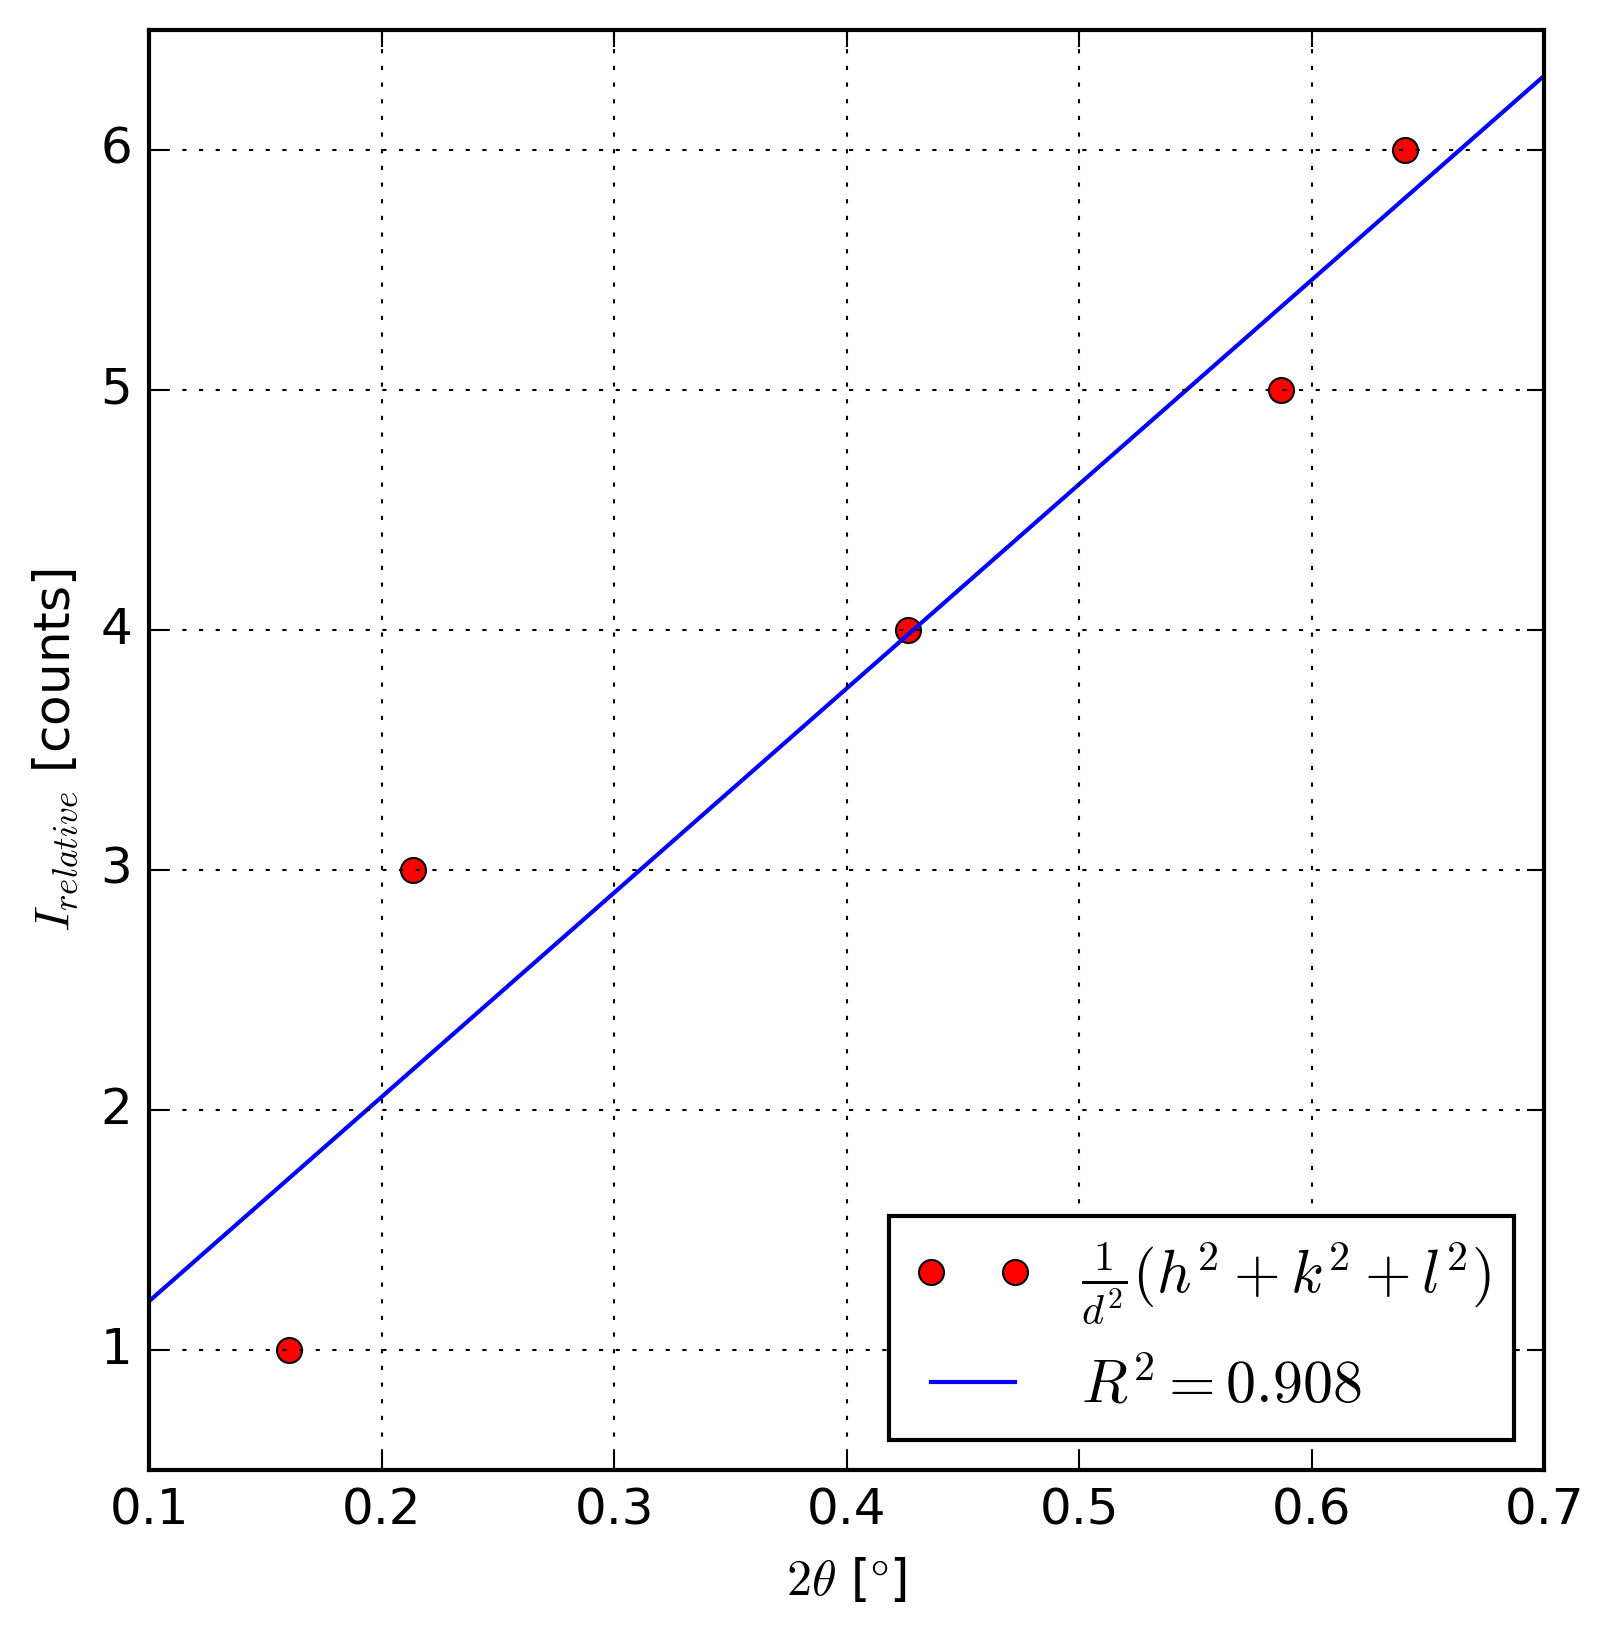
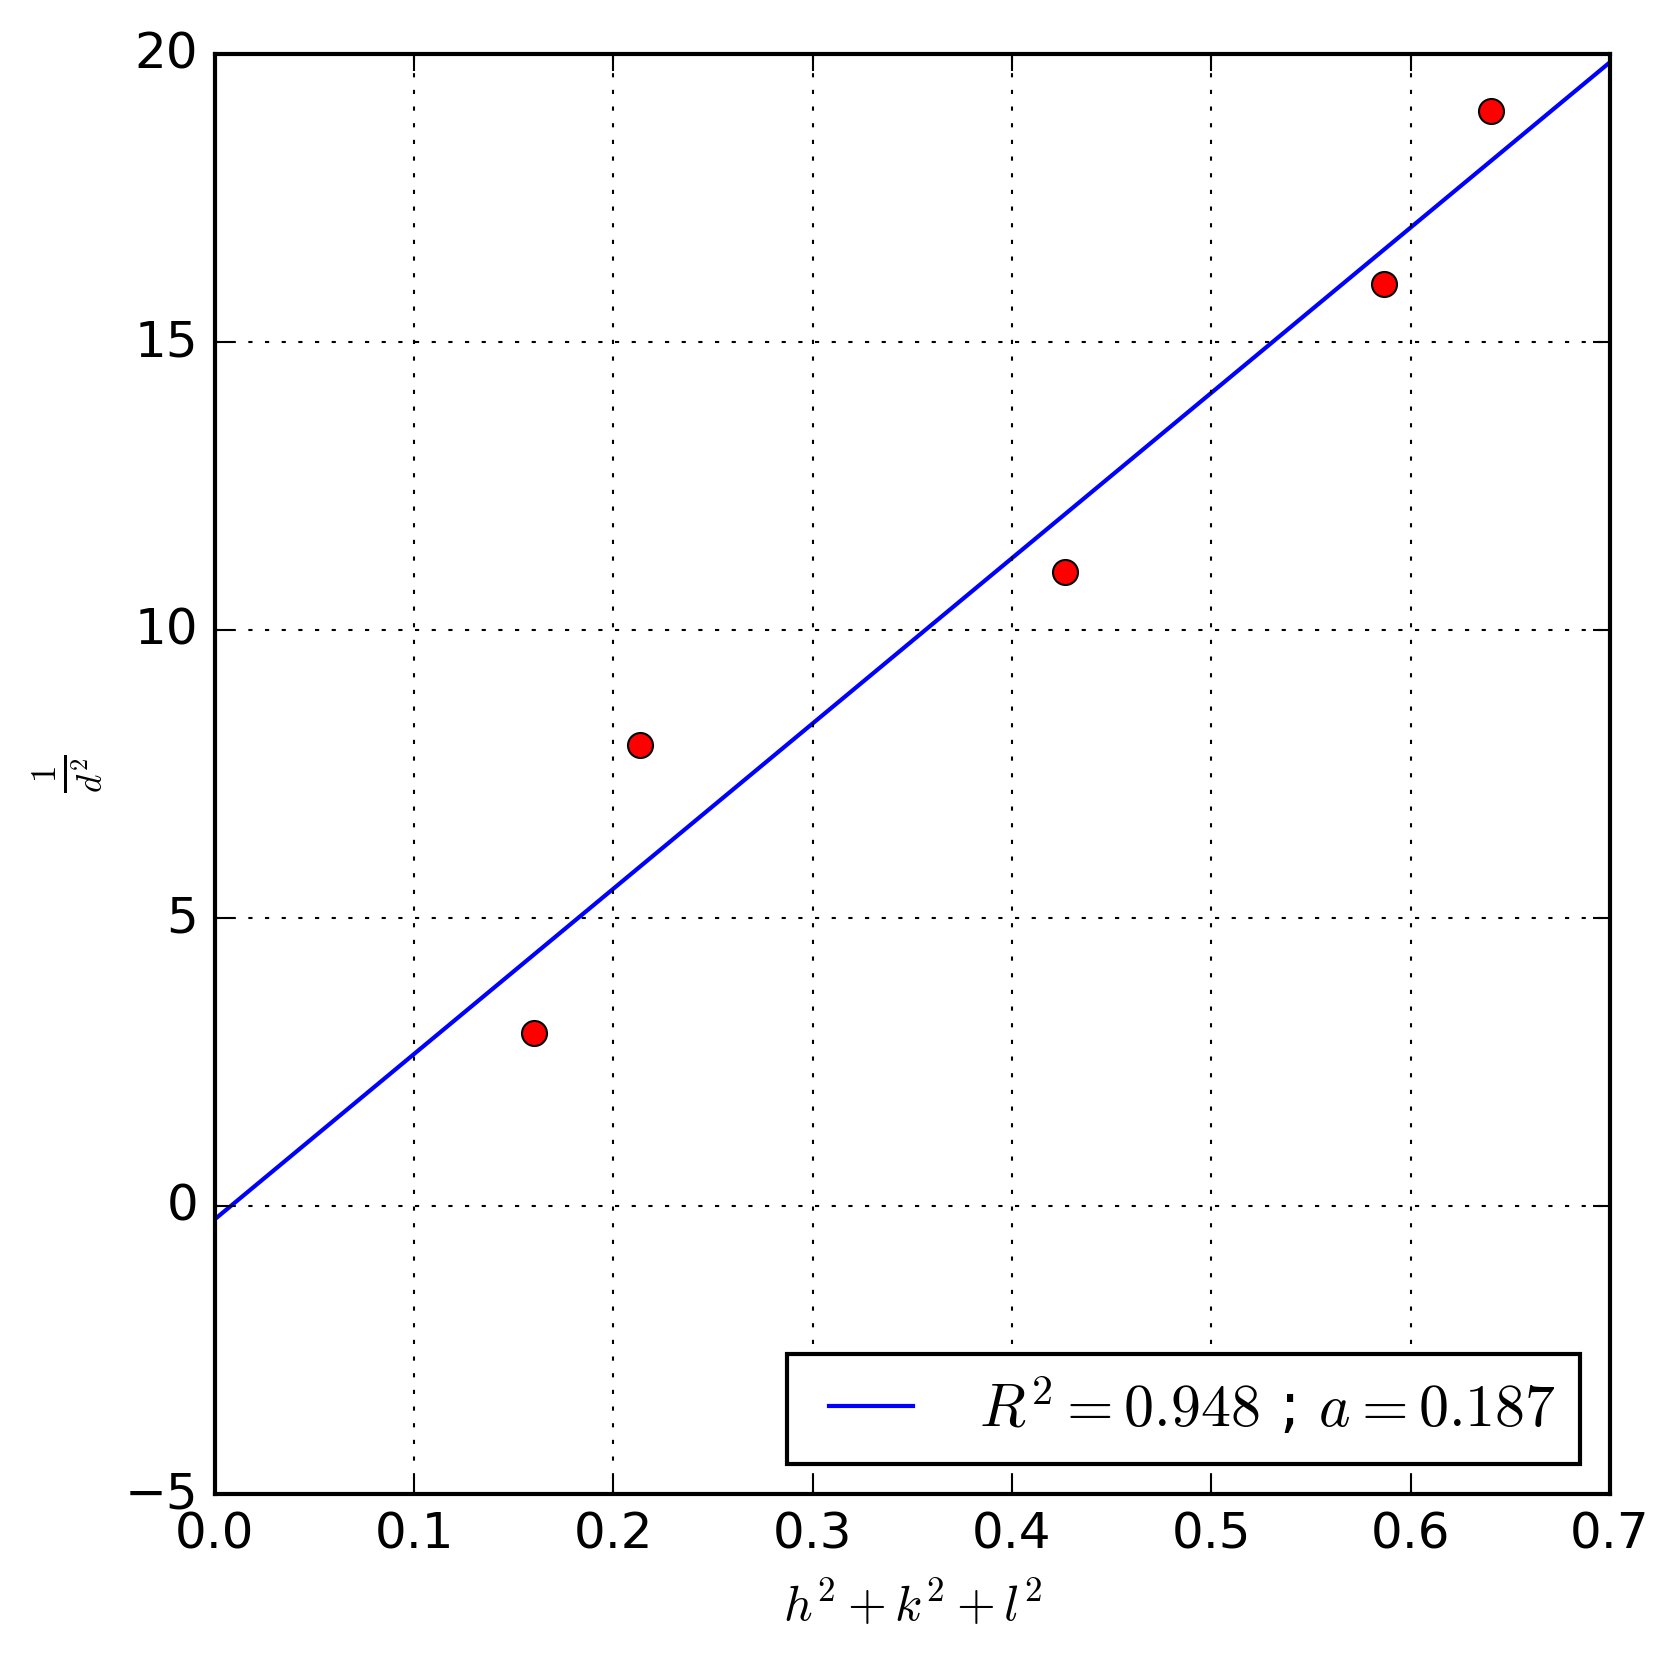
Entrega1 V.2. Ara funciona, només fa falta verificar el paràmetre de xarxa

diff --git a/entrega1/entrega1.py b/entrega1/entrega1.py
@@ -116,6 +116,8 @@ def StructureFactorSC(G):
     S = 0
     for c_i in c:
         S += np.exp(2j * np.pi * (h*c_i[0] + k*c_i[1] + l*c_i[2]))
+    if np.abs(S) < 1e-10:
+        S = 0
     return S
 def StructureFactorBCC(G):
     h, k, l, mod = G
@@ -124,6 +126,8 @@ def StructureFactorBCC(G):
     S = 0
     for c_i in c:
         S += np.exp(2j * np.pi * (h*c_i[0] + k*c_i[1] + l*c_i[2]))
+    if np.abs(S) < 1e-10:
+        S = 0
     return S
 def StructureFactorFCC(G):
     h, k, l, mod = G
@@ -132,6 +136,8 @@ def StructureFactorFCC(G):
     S = 0
     for c_i in c:
         S += np.exp(2j * np.pi * (h*c_i[0] + k*c_i[1] + l*c_i[2]))
+    if np.abs(S) < 1e-10:
+        S = 0
     return S
 def StructureFactorDiamond(G):
     h, k, l, mod = G
@@ -141,6 +147,8 @@ def StructureFactorDiamond(G):
     S = 0
     for c_i in c:
         S += np.exp(2j * np.pi * (h*c_i[0] + k*c_i[1] + l*c_i[2]))
+    if np.abs(S) < 1e-10:
+        S = 0
     return S
 
 
@@ -157,17 +165,20 @@ mods = [modSC[:len(factorD)], modBCC[:len(factorD)], modFCC[:len(factorD)], modD
 for mod, name in zip(mods, ['SC', 'BCC', 'FCC', 'Diamond']):
 
     regLin = RegLin(factorD, mod)
-    x_min, x_max = 0.1, 0.7
+    x_min, x_max = 0, 0.7
+
+    a = 1/np.sqrt(regLin.pendent)
 
     plt.style.use('classic')
     plt.figure(figsize=(6,6), facecolor='white')
-    plt.plot(factorD, mod, 'o', label=r'$\frac{1}{d^2}(h^2 + k^2 + l^2)$', color='red')
-    plt.plot([x_min, x_max], [regLin.Calcular(x_min), regLin.Calcular(x_max)], label=f'$R^2 = {regLin.R2:.3f}$', color='blue')
+    plt.plot(factorD, mod, 'o', color='red')
+    plt.plot([x_min, x_max], [regLin.Calcular(x_min), regLin.Calcular(x_max)], label=f'$R^2 = {regLin.R2:.3f}$ ; $a = {a:.3f}$', color='blue')
     #plt.xlim( , )
-    plt.ylim(0.5,6.5)
-    plt.xlabel(r'$2\theta$ [$\degree$]')
-    plt.ylabel(r'$I_{relative}$ [counts]')
+    #plt.ylim( , )
+    plt.xlabel(r'$h^2 + k^2 + l^2$')
+    plt.ylabel(r'$\frac{1}{d^2}$')
     plt.grid(True)
     plt.legend(loc = 'lower right')
     plt.savefig(f'entrega1/informe/images/{name}.png', dpi=300, bbox_inches='tight')
     #plt.show()
+    print(f'{name}, {a}')
